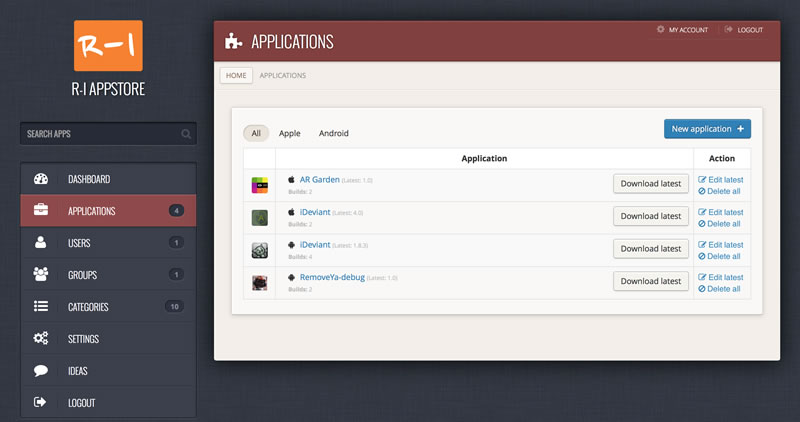
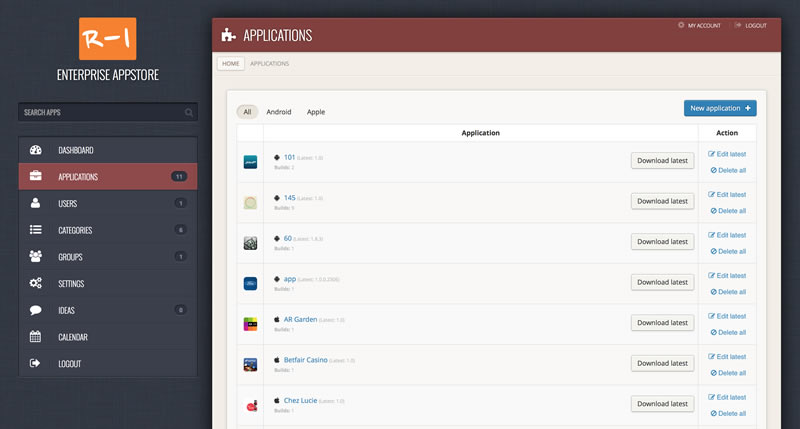
new images for read me

diff --git a/README.md b/README.md
@@ -18,6 +18,18 @@ Applications list:
 Settings page:
 <img src="https://raw.github.com/Ridiculous-Innovations/EnterpriseAppStore/master/_orig/screens/screen3.jpg" alt="Settings page" />
 
+Builds calendar page:
+<img src="https://raw.github.com/Ridiculous-Innovations/EnterpriseAppStore/master/_orig/screens/screen4.jpg" alt="Settings page" />
+
+Categories page:
+<img src="https://raw.github.com/Ridiculous-Innovations/EnterpriseAppStore/master/_orig/screens/screen5.jpg" alt="Settings page" />
+
+Groups page:
+<img src="https://raw.github.com/Ridiculous-Innovations/EnterpriseAppStore/master/_orig/screens/screen6.jpg" alt="Settings page" />
+
+Edit group page:
+<img src="https://raw.github.com/Ridiculous-Innovations/EnterpriseAppStore/master/_orig/screens/screen7.jpg" alt="Settings page" />
+
 
 
 License
